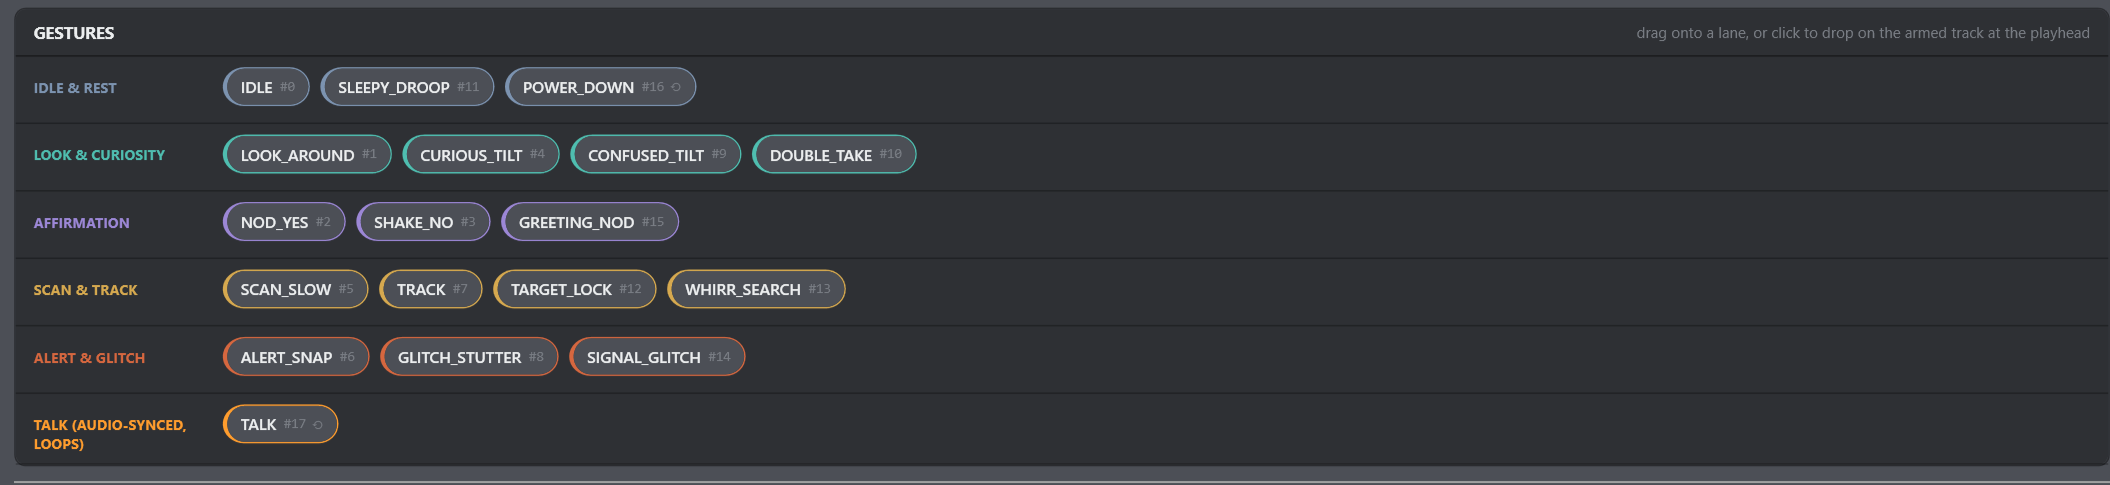
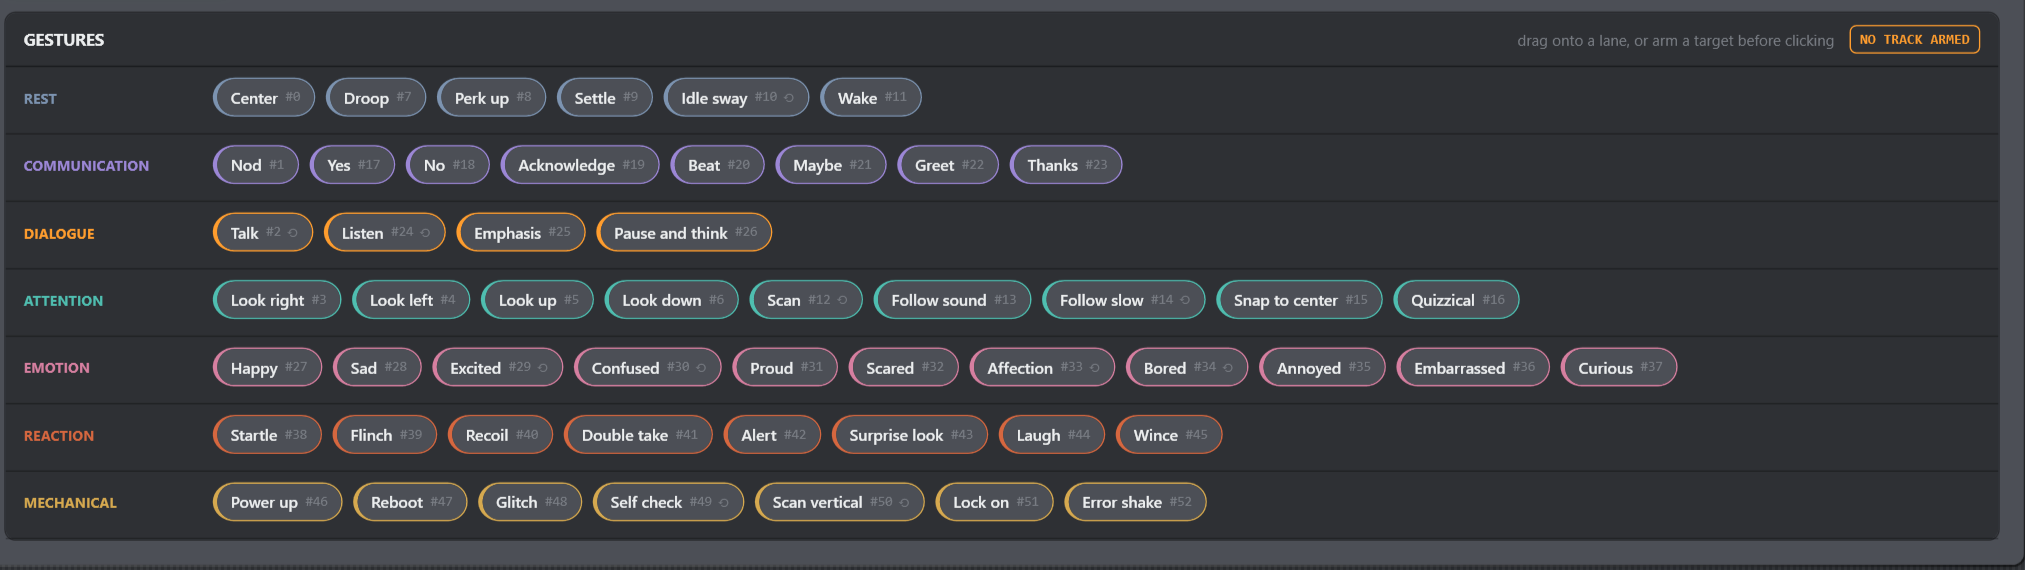
Fix the gesture library's loop badge and refresh the in-app Help
The GESTURES palette chip template still matched Id == 16/17 directly
(SequenceTimelineView.xaml) — a fifth spot of the pre-V2 magic-number
check the 0.13.1 sweep fixed everywhere else. It marked Yes and
attention.quizzical as looping and missed all eleven gestures that
actually are. GestureLibraryEntry now carries IsContinuous, derived in
SequencerViewModel from GestureDefinitionV2.Execution like the rest of
the catalog-driven lookups, and the badge binds to it directly instead
of a two-case DataTrigger. Verified live against the bench fleet.

Also refreshes the in-app Help (console/Help/docs), stale since
2026-08-16: version banner, the gesture library and Sequencer-tracks
screenshots (both recaptured from the live 0.13.x app against the real
COM3 fleet), the catalog's 7-family/53-gesture shape, the new VARIATION
inspector section, and every TALK/POWER_DOWN reference generalized to
"continuous gesture" now that eleven gestures qualify and POWER_DOWN no
longer exists in the catalog.

Bumps VersionPrefix to 0.13.2. Console builds clean.

Changed region(s): [[0.0, 0.0, 1.0, 1.0], [0.0933, 0.1237, 0.4667, 0.2165]]

diff --git a/console/Views/SequenceTimelineView.xaml b/console/Views/SequenceTimelineView.xaml
@@ -1119,21 +1119,8 @@
                                                         <TextBlock Text="{Binding Id, StringFormat='#{0}'}" FontFamily="{StaticResource MonoFont}"
                                                                    FontSize="9" Foreground="{StaticResource Muted2Brush}"
                                                                    Margin="5,1.5,0,0" />
-                                                        <TextBlock Text="⟲" FontSize="9" Foreground="{StaticResource Muted2Brush}" Margin="4,0.5,0,0">
-                                                            <TextBlock.Style>
-                                                                <Style TargetType="TextBlock">
-                                                                    <Setter Property="Visibility" Value="Collapsed" />
-                                                                    <Style.Triggers>
-                                                                        <DataTrigger Binding="{Binding Id}" Value="16">
-                                                                            <Setter Property="Visibility" Value="Visible" />
-                                                                        </DataTrigger>
-                                                                        <DataTrigger Binding="{Binding Id}" Value="17">
-                                                                            <Setter Property="Visibility" Value="Visible" />
-                                                                        </DataTrigger>
-                                                                    </Style.Triggers>
-                                                                </Style>
-                                                            </TextBlock.Style>
-                                                        </TextBlock>
+                                                        <TextBlock Text="⟲" FontSize="9" Foreground="{StaticResource Muted2Brush}" Margin="4,0.5,0,0"
+                                                                   Visibility="{Binding IsContinuous, Converter={StaticResource BoolToVisConv}}" />
                                                     </StackPanel>
                                                 </Border>
                                             </DataTemplate>

diff --git a/console/ViewModels/SequencerViewModel.cs b/console/ViewModels/SequencerViewModel.cs
@@ -73,7 +73,13 @@ public partial class SequencerViewModel : ObservableObject, IDisposable
     public IReadOnlyList<GestureFamily> GestureFamilies { get; } = BuildGestureFamilies();
 
     private static GestureLibraryEntry ToLibraryEntry(GestureDefinitionV2 gesture, int id) =>
-        new() { Id = id, Name = gesture.DisplayName, Description = gesture.Description };
+        new()
+        {
+            Id = id,
+            Name = gesture.DisplayName,
+            Description = gesture.Description,
+            IsContinuous = gesture.Execution == GestureExecutionKind.Continuous,
+        };
 
     private static List<GestureFamily> BuildGestureFamilies() =>
         GestureSceneV2Persistence.Catalog.Ordered

diff --git a/console/Models/GestureLibraryEntry.cs b/console/Models/GestureLibraryEntry.cs
@@ -10,6 +10,7 @@ public class GestureLibraryEntry
     public int Id { get; init; }
     public string Name { get; init; } = "";
     public string Description { get; init; } = "";
+    public bool IsContinuous { get; init; }
 
     // DarkComboBoxStyle displays the closed selection through ToString(), not DisplayMemberPath
     // (see docs/KNOWN-PITFALLS.md) — the inspector's GESTURE combo needs this the same way

diff --git a/console/Help/docs/sequencer/playback.md b/console/Help/docs/sequencer/playback.md
@@ -50,7 +50,7 @@ Every finding is advisory: Preflight never disables or intercepts Play, Restart
 or Resume. It runs only when you open the panel; closing it does not rescan, and
 there is no persistent red result badge beside the button. The scan checks
 overlapping/duplicate/ambiguous gestures, missing/unreadable audio, pending or
-unknown audio duration, and `TALK`/`POWER_DOWN` clips without a valid represented
+unknown audio duration, and continuous-gesture clips without a valid represented
 endpoint. Muted gesture tracks are ignored, including conflict analysis.
 
 Preflight deliberately does not inspect the serial port, handshake, master or
@@ -86,12 +86,12 @@ Muted or offline rows do not create a queue for missed commands.*
 - **Pause** freezes the console playhead, pauses active PC audio, and cancels
   future scheduled sends. It sends no pause/stop command to the droids: every
   finite gesture already received continues to its natural completion, and a
-  running `TALK`/`POWER_DOWN` continues while its safety lease is renewed.
+  running continuous gesture continues while its safety lease is renewed.
   Moving the timeline playhead while paused abandons that retained pass through
   normal Stop cleanup and changes the transport to Stopped at the new position;
   clicking without moving preserves ordinary Resume.
 - **Stop** cancels future sends, stops local audio, sends targeted `IDLE` cleanup
-  to droids whose latest Sequencer gesture is `TALK` or `POWER_DOWN`, and retains
+  to droids whose latest Sequencer gesture is continuous, and retains
   the playhead for inspection. **Return to start** (`Ctrl+Home`) is a separate
   navigation action available after stopping.
 - **Safe Stop** cancels the same console work, then tells every reachable droid
@@ -109,7 +109,7 @@ Muted or offline rows do not create a queue for missed commands.*
   content, END remains at that content tail instead of truncating it. **Auto**
   returns to the calculated tail, and endpoint edits support Undo/Redo.
 - **Loop** starts a new pass when the Scene endpoint is reached. A
-  `POWER_DOWN`/`TALK` clip first reaches its authored endpoint and sends IDLE;
+  continuous-gesture clip first reaches its authored endpoint and sends IDLE;
   the next pass then starts cleanly at t = 0. Without Loop, natural completion
   stops at the authoritative Scene endpoint so the finished position remains
   visible.
@@ -134,7 +134,7 @@ not an automatic fallback for a lost master.
 
 > **Important:** Pause cannot freeze or retract a gesture already sent to a
 > droid, and Stop does not interrupt finite one-shot gestures. A one-shot gesture
-> finishes naturally. For a tracked looping `POWER_DOWN` or `TALK`, Stop,
+> finishes naturally. For a tracked looping continuous gesture, Stop,
 > non-looping natural end, application shutdown, or restarting Play sends a
 > targeted `IDLE` to each affected droid without disturbing other targets.
 
@@ -148,8 +148,8 @@ The console remembers the latest Sequencer gesture written for each concrete
 droid. Broadcast looping gestures are expanded to the droids online at dispatch;
 a later per-droid finite gesture removes only that droid from cleanup. Repeated
 Stop is idempotent after a successful serial write. If the link is unavailable,
-cleanup remains retryable. Current firmware also gives Sequencer-started
-`TALK`/`POWER_DOWN` a five-second safety lease, renewed every two seconds while
+cleanup remains retryable. Current firmware also gives any Sequencer-started
+continuous gesture a five-second safety lease, renewed every two seconds while
 the pass still owns the gesture. If the console crashes, the cable is removed,
 the master becomes unreachable, or renewal otherwise stops, the target returns
 to `IDLE` automatically. Pause keeps renewing until the authored clip endpoint;
@@ -186,7 +186,7 @@ Older firmware without the additive `animAccepted` event can move directly from
 the radio stack accepted the outgoing frame; it is not proof that a slave
 received it. Target execution remains the success signal.
 
-`POWER_DOWN` and `TALK` loop while their Sequencer lease is renewed, so their
+Continuous gestures loop while their Sequencer lease is renewed, so their
 healthy state remains `START`; they become terminal when another gesture
 interrupts them, the firmware rejects the command, or the lease expires
 (`STOP`, reason `leaseExpired`). Execution feedback confirms the firmware

diff --git a/console/Help/docs/sequencer/timeline.md b/console/Help/docs/sequencer/timeline.md
@@ -85,11 +85,12 @@ cancelled ruler scrubbing returns the playhead to its starting position.
 
 ![Gesture library](../images/gesture-library.png)
 
-*Figure: All six behavior groups are visible, including Alert & Glitch and the
-audio-synchronized Talk loop.*
+*Figure: The full catalog spans seven families — REST, COMMUNICATION,
+DIALOGUE, ATTENTION, EMOTION, REACTION, MECHANICAL — for 53 gestures total.
+Each family's label and its chips share one color.*
 
-*The built-in gestures are grouped by purpose; loop badges identify
-`POWER_DOWN` and `TALK`.*
+*Hover a chip to read its catalog description instead of a repeated
+interaction hint.*
 
 - **Insert:** first arm a track, then click a library chip to insert it there at
   the playhead. A click with **NO TRACK ARMED** inserts nothing. Dragging a chip
@@ -101,8 +102,11 @@ audio-synchronized Talk loop.*
   duplicate is selected and placed on the same target 0.2 seconds after the
   original so the copy does not remain hidden underneath it.
 - **Inspector:** choose a different gesture or target, view its exact start and
-  duration estimate, and use the ±0.1 s buttons. For `POWER_DOWN`/`TALK`, a
-  second pair of buttons edits the real endpoint. Displayed values are not
+  duration estimate, and use the ±0.1 s buttons. For a continuous gesture, a
+  second pair of buttons edits the real endpoint. A gesture that needs pose
+  variation (today: `Nod` and `Talk`) also gets a VARIATION section showing
+  its seed, with Regenerate to pick a new pose without touching timing;
+  Duplicate always keeps the original clip's seed. Displayed values are not
   text-entry fields in the current release.
 
 One shared timing estimate drives clip width, active highlighting, total time
@@ -110,12 +114,13 @@ and inspector text. Finite gestures use the firmware's fixed nominal duration;
 deterministic pose variation does not shift the timeline. Before metadata
 arrives, the same 1.5 s provisional fallback appears everywhere.
 
-The loop badge identifies `POWER_DOWN` and `TALK`. Their width is a persisted
-fixed duration (2 s by default), not an indication: at the right edge the
-Sequencer sends targeted `IDLE` if that looping gesture still owns the droid.
-A later replacement gesture always wins. `IDLE` itself is an immediate command;
-its physical return to center takes approximately 0.6 s but adds no timeline
-tail.
+The catalog currently marks eleven gestures continuous — `Talk`, `Listen`,
+`Idle sway`, `Scan`, `Follow slow`, four `Emotion` gestures, and two
+`Mechanical` gestures. Their clip width is a persisted fixed duration (2 s by
+default), not an indication: at the right edge the Sequencer sends targeted
+`IDLE` if that gesture still owns the droid. A later replacement gesture
+always wins. `IDLE` itself is an immediate command; its physical return to
+center takes approximately 0.6 s but adds no timeline tail.
 
 ## Undo and Redo
 

diff --git a/console/installer/RELEASE-NOTES-0.13.2.md b/console/installer/RELEASE-NOTES-0.13.2.md
@@ -1,0 +1,36 @@
+# B1 Chat Console 0.13.2
+
+This corrective release requires **firmware 1.12.1** (unchanged — no firmware
+update needed for this release). It carries no new gesture content, only one
+cosmetic bug found while refreshing the in-app Help screenshots after Stage 7.
+
+## Bug found and fixed
+
+- **The GESTURES palette's loop badge (⟲) pointed at the wrong chips.** A
+  fifth, previously-missed spot of the `AnimId is 16 or 17` legacy check
+  fixed console-wide in 0.13.1 was still live in the palette chip template
+  (`SequenceTimelineView.xaml`): it marked `Yes` and `attention.quizzical` as
+  looping and missed all eleven gestures that actually are (`Talk`, `Listen`,
+  `Idle sway`, `Scan`, `Follow slow`, `Excited`, `Confused`, `Affection`,
+  `Bored`, `Self check`, `Scan vertical`). Purely cosmetic — it never affected
+  which gestures the Sequencer actually treated as continuous, only which
+  chip looked like it in the library. `GestureLibraryEntry` now carries
+  `IsContinuous`, derived from the parsed catalog like everything else in the
+  0.13.1 sweep, and the badge binds to it directly instead of a two-case
+  `DataTrigger`.
+
+## Validation
+
+- Console builds clean.
+- Verified live against a real master+slave bench: the badge now lands on
+  exactly the eleven continuous gestures and no others.
+
+The installer is self-contained for Windows x64 and includes the application,
+.NET desktop runtime, current Help payload, `espflash`, and its local Visual
+C++ runtime.
+
+## Download verification
+
+SHA-256 for `b1-chat-console-setup-0.13.2.exe`:
+
+`TBD`

diff --git a/docs/GESTURE-SEQUENCER-V2.md b/docs/GESTURE-SEQUENCER-V2.md
@@ -447,6 +447,20 @@ trajectory data itself:
 Trajectory/timing content itself has not yet needed a correction. Audition
 continues on the remaining gestures.
 
+**A fifth `animId is 16 or 17` spot found the next day (2026-08-25):** the
+GESTURES palette chip's own loop badge (⟲) was still a `SequenceTimelineView.xaml`
+`DataTrigger` on literal `Id == 16`/`Id == 17`, missed by the console-wide sweep
+above because it is purely cosmetic — it never affected execution, only which
+chip looked continuous in the library. It now marked the wrong two gestures
+(`Yes`, `attention.quizzical`) and missed all eleven real ones. Fixed the same
+way as the rest of the sweep: `GestureLibraryEntry` gained `IsContinuous`,
+populated in `SequencerViewModel.ToLibraryEntry` from
+`GestureDefinitionV2.Execution == GestureExecutionKind.Continuous`, and the
+badge's `Visibility` binds to it directly. Verified live against the bench
+fleet: the badge now lands on exactly `Talk`, `Listen`, `Idle sway`, `Scan`,
+`Follow slow`, `Excited`, `Confused`, `Affection`, `Bored`, `Self check`, and
+`Scan vertical`.
+
 ### Stage 8 — Simulation and observability
 
 - Add a no-motion Dry Run using the real compiled plan.

diff --git a/docs/KNOWN-PITFALLS.md b/docs/KNOWN-PITFALLS.md
@@ -79,7 +79,14 @@ relevant behavior.
   timeout badge. Look up behavior (execution kind, display name, seed policy)
   by `GestureKey` against the parsed catalog, or by `animId` against the
   catalog's own `Ordered` array — never against a hand-picked number, however
-  stable that number looks today.
+  stable that number looks today. A fifth instance surfaced the next day
+  (2026-08-25): the GESTURES library chip's own loop-badge (⟲) trigger,
+  cosmetic only — it never affected execution, just which chip looked
+  continuous — still matched `Id == 16 || Id == 17` directly in
+  `SequenceTimelineView.xaml`. Fixed the same way: `GestureLibraryEntry` now
+  carries `IsContinuous`, populated from `GestureDefinitionV2.Execution` in
+  `SequencerViewModel.ToLibraryEntry`, and the badge binds `Visibility` to it
+  instead of a two-case `DataTrigger`.
 - The lease mechanism (`main.cpp`'s `validLeasedAnimPayload`,
   `serial_console.cpp`'s `gesture` command handler) was hardcoded to accept
   only `dialogue.talk` because it was the only continuous gesture that existed

diff --git a/console/Help/docs/reference/glossary.md b/console/Help/docs/reference/glossary.md
@@ -90,5 +90,16 @@ than dragged.
 **Snap** — optional rounding of placement to 100 ms when a clip is inserted or
 released.
 
+**Continuous gesture** — a catalog gesture (`Talk`, `Listen`, `Idle sway`,
+`Scan`, `Follow slow`, four `Emotion` gestures, and two `Mechanical` gestures
+today) that loops on the droid instead of finishing on its own. Its Sequencer
+clip carries a five-second safety lease, renewed every two seconds, and its
+inspector exposes a real endpoint instead of a fixed duration.
+
+**Variation / seed** — a deterministic random seed behind a clip's pose. Only
+gestures that need it (`Nod` and `Talk` today) show a VARIATION section in the
+inspector; Regenerate picks a new seed, and Duplicate always keeps the
+original.
+
 **Console-driven playback** — the PC schedules and sends individual commands in
 real time. No standalone sequence remains on the master.

diff --git a/console/Help/docs/reference/troubleshooting.md b/console/Help/docs/reference/troubleshooting.md
@@ -115,8 +115,9 @@ See [OTA over the Mesh](../firmware/ota.md) for the complete outcome model.
 ## Sequencer Play does not stop a moving droid
 
 Pause and Stop cancel future timeline sends; they cannot retract a gesture already
-received by firmware. One-shot gestures finish naturally. Replace `TALK` or
-`POWER_DOWN` with another gesture, or disable Servos for an immediate motion cut.
+received by firmware. One-shot gestures finish naturally. Replace the running
+continuous gesture with another gesture, or disable Servos for an immediate
+motion cut.
 
 ## A sequence was not there after restart
 

diff --git a/console/Help/docs/getting-started.md b/console/Help/docs/getting-started.md
@@ -13,7 +13,7 @@ calibration, sequencing, and local audio stay on your PC and local mesh.
 > It covers Windows requirements, hardware power, the first master/slave flash,
 > connection, adoption, and safe calibration in the right order.
 
-This guide describes **B1 Chat Console 0.12.1** with **firmware 1.11.0,
+This guide describes **B1 Chat Console 0.13.2** with **firmware 1.12.1,
 protocol 5**. Use matching current console and firmware releases whenever
 possible; older firmware may omit controls that depend on newer capabilities.
 

diff --git a/console/Help/docs/reference/tips.md b/console/Help/docs/reference/tips.md
@@ -55,7 +55,7 @@ before clicking a chip, or drag it when target and timing must be explicit.*
 - Start with all required droids online. Missed timeline events are not replayed
   when a droid reconnects.
 - Remember that Pause cannot retract a gesture already sent. Normal Stop cleans
-  up Sequencer-owned `TALK`/`POWER_DOWN`, but finite gestures finish naturally;
+  up Sequencer-owned continuous gestures, but finite gestures finish naturally;
   use Safe Stop or E-STOP for their distinct fleet-wide safety policies.
 
 ## Firmware work
